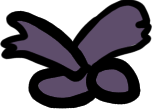
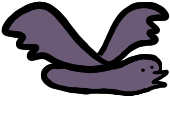
Allow images to depend on state

diff --git a/svelte/src/scenes/cruising-bird.ts b/svelte/src/scenes/cruising-bird.ts
@@ -7,6 +7,11 @@ import {
   type SceneObject,
 } from "../model";
 
+interface CruisingBirdState {
+  flapUp: boolean;
+  yPosition: NumberSpring;
+}
+
 export const makeCruisingBird = <TLayerKey extends string>(
   layerKey: TLayerKey,
   initial: Position,
@@ -16,11 +21,12 @@ export const makeCruisingBird = <TLayerKey extends string>(
   const rangeRange = Math.abs(rangeY[0] - rangeY[1]);
   const makeNewEndPoint = () => Math.random() * rangeRange + rangeMin;
 
-  return makeSceneObjectStateful<TLayerKey, { yPosition: NumberSpring }>({
+  return makeSceneObjectStateful<TLayerKey, CruisingBirdState>({
     layerKey,
     position: PosFns.new(initial.x, initial.y),
-    state: (() => {
-      const yPosition = NumberSpringFns.make({
+    state: {
+      flapUp: true,
+      yPosition: NumberSpringFns.make({
         endPoint: makeNewEndPoint(),
         position: initial.y,
         velocity: 0,
@@ -30,14 +36,12 @@ export const makeCruisingBird = <TLayerKey extends string>(
           stiffness: 0.1,
           weight: 0.05,
         },
-      });
-
-      return { yPosition };
-    })(),
-    getLayers: () => [
+      }),
+    },
+    getLayers: (current) => [
       {
         kind: "image",
-        assetKey: "birdFlapUp",
+        assetKey: current.state.flapUp ? "birdFlapUp" : "birdFlapDown",
         subLayer: "background",
       },
     ],
@@ -58,7 +62,10 @@ export const makeCruisingBird = <TLayerKey extends string>(
 
       return [
         { kind: "moveTo", to: newPosition },
-        { kind: "updateState", state: { yPosition: newSpring } },
+        {
+          kind: "updateState",
+          state: { yPosition: newSpring, flapUp: !current.state.flapUp },
+        },
       ];
     },
   });

diff --git a/svelte/src/model/scene-object.ts b/svelte/src/model/scene-object.ts
@@ -24,7 +24,7 @@ export type SceneObjectAction<TState> =
   | { kind: "show" }
   | { kind: "moveBy"; by: Position }
   | { kind: "moveTo"; to: Position }
-  | { kind: "updateState"; state: TState };
+  | { kind: "updateState"; state: Partial<TState> };
 
 type EmptyState = Record<string, never>;
 
@@ -33,8 +33,8 @@ export type SceneObject<TLayerKey extends string, TState> = {
   position: Position;
   hidden?: boolean;
   layerKey: TLayerKey;
-  getLayers: () => ObjectLayerContent[];
   state: TState;
+  getLayers: (current: SceneObject<string, TState>) => ObjectLayerContent[];
   onInteract?: (
     current: SceneObject<string, TState>
   ) => SceneObjectAction<TState>[];
@@ -97,7 +97,7 @@ export const applySceneObjectAction = <TLayerKey extends string, TState>(
     case "updateState": {
       return {
         ...obj,
-        state: action.state,
+        state: { ...obj.state, ...action.state },
       };
     }
   }

diff --git a/svelte/src/model/draw-layer.ts b/svelte/src/model/draw-layer.ts
@@ -71,7 +71,7 @@ export const resolveScene = <TLayerKey extends string>(
     .filter((obj) => !obj.hidden)
     .flatMap((obj) => {
       return obj
-        .getLayers()
+        .getLayers(obj)
         .map<[TLayerKey, SubLayerKey, DrawLayer]>((objectLayerContent) => {
           return [
             obj.layerKey,

diff --git a/svelte/src/model/assets.ts b/svelte/src/model/assets.ts
@@ -10,6 +10,7 @@ const imagePaths = {
   tree2: "/assets/scene-intro/trees/tree2.PNG",
   tree3: "/assets/scene-intro/trees/tree3.PNG",
   birdFlapUp: "/assets/scene-intro/bird-flap-up.png",
+  birdFlapDown: "/assets/scene-intro/bird-flap-down.png",
 };
 
 export type AssetKey = keyof typeof imagePaths;

diff --git a/svelte/src/model/spring.ts b/svelte/src/model/spring.ts
@@ -11,6 +11,10 @@ export interface Spring<T> {
   position: T;
   velocity: T;
   endPoint: T;
+  /**
+   * Determines whether a spring will be animated.
+   * Set to false when animation is complete.
+   */
   stationary: boolean;
   properties: SpringProperties;
 }
